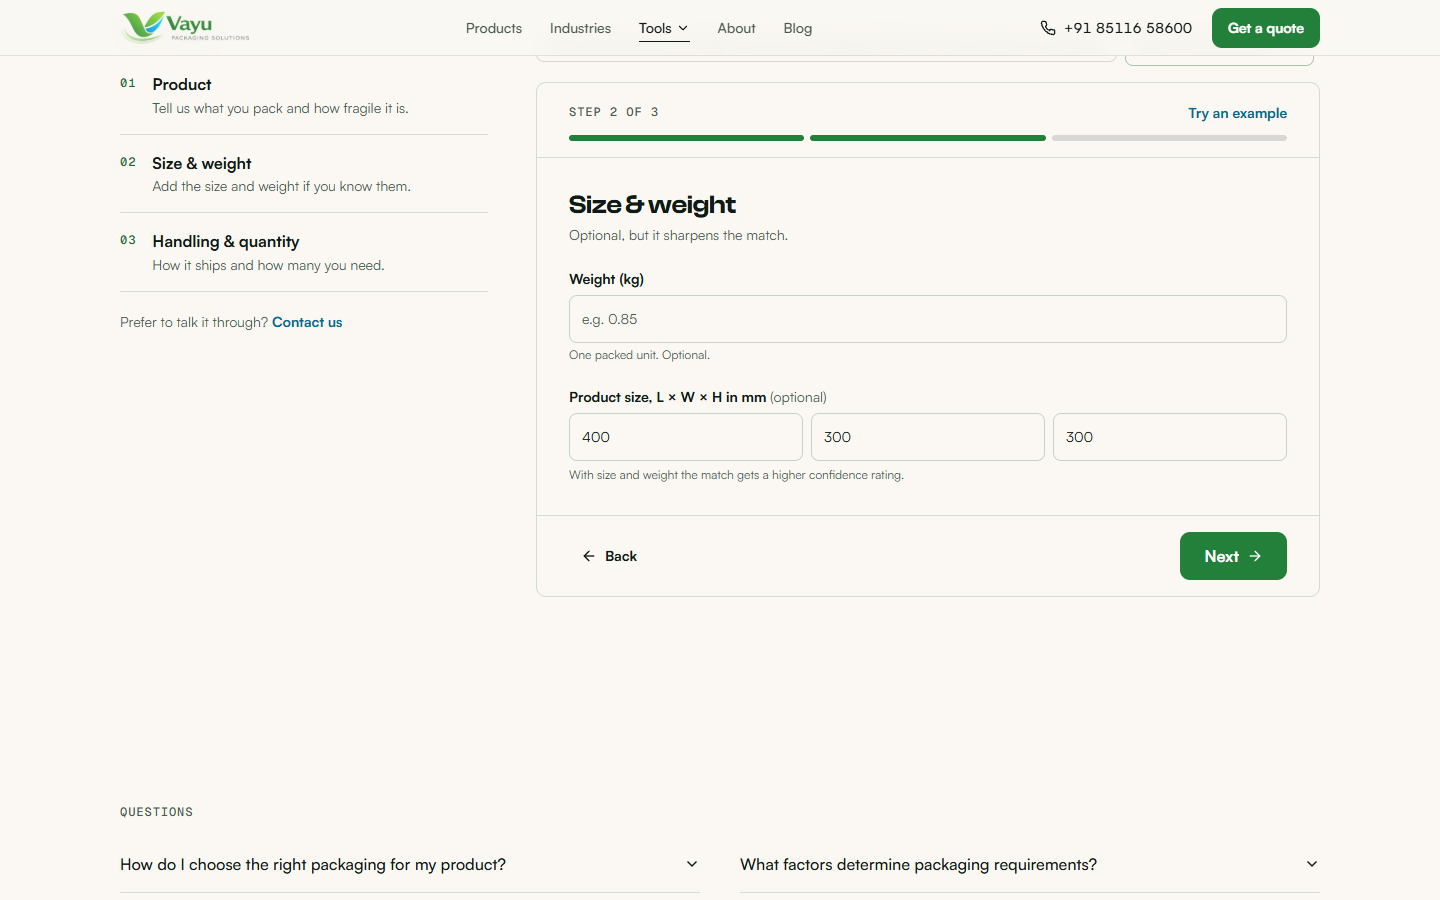
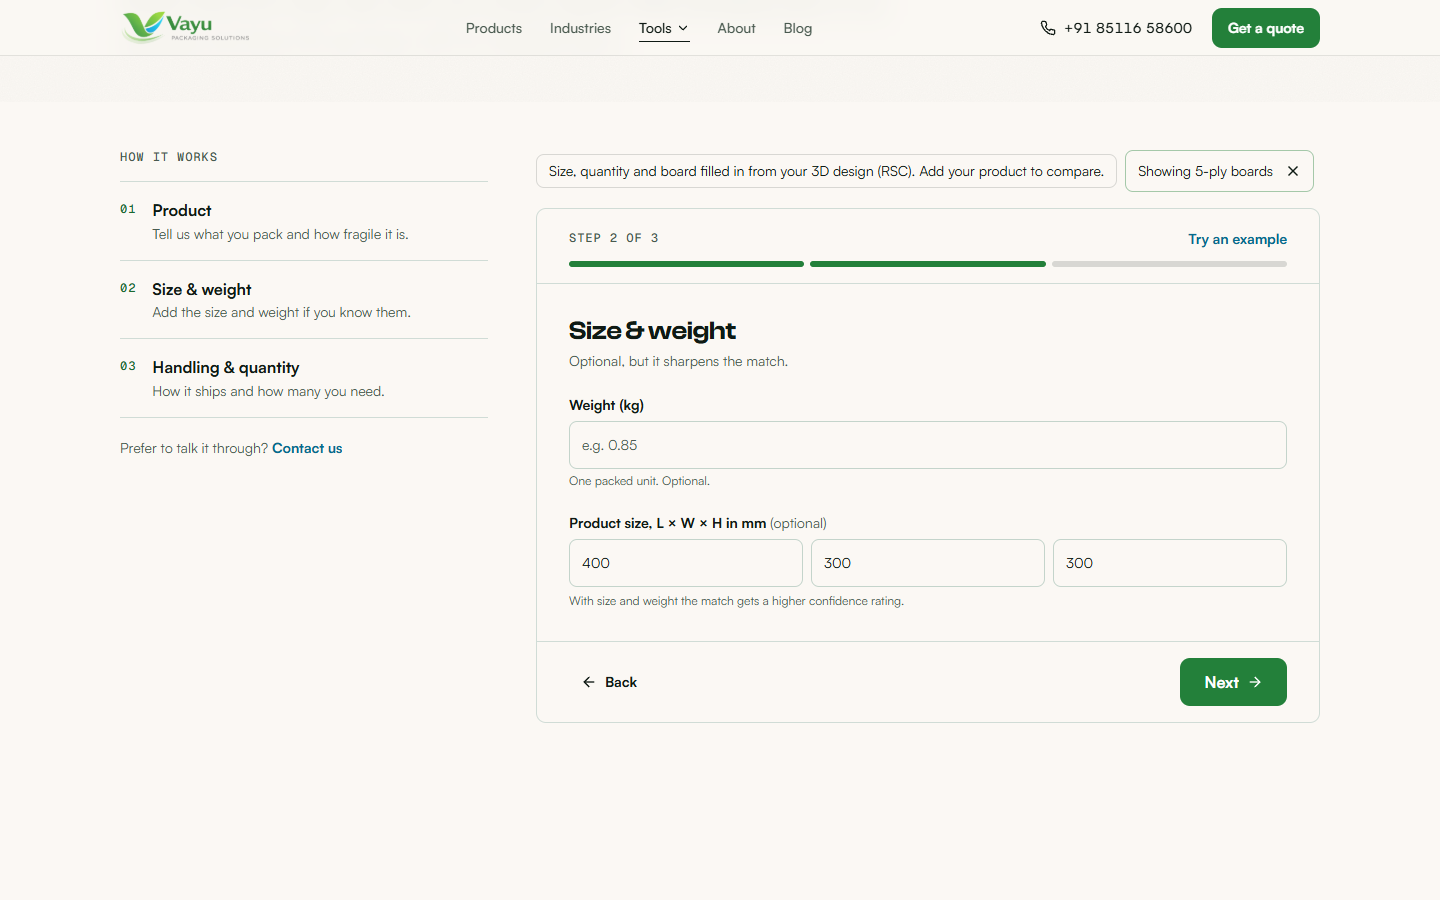
Box designer: capture blog screenshots, mobile and wizard fixes, text size minimum

diff --git a/src/lib/boxDesigner/imageUpload.ts b/src/lib/boxDesigner/imageUpload.ts
@@ -36,7 +36,8 @@ export async function prepareUpload(file: File): Promise<string> {
     });
     const w = img.naturalWidth || 1024; // SVG without intrinsic size
     const h = img.naturalHeight || 1024;
-    const scale = Math.min(1, MAX_EDGE_PX / Math.max(w, h));
+    // Vector logos are drawn at full working size so they stay sharp in the print check; bitmaps are never enlarged
+    const scale = type === 'image/svg+xml' ? MAX_EDGE_PX / Math.max(w, h) : Math.min(1, MAX_EDGE_PX / Math.max(w, h));
     const canvas = document.createElement('canvas');
     canvas.width = Math.max(1, Math.round(w * scale));
     canvas.height = Math.max(1, Math.round(h * scale));
